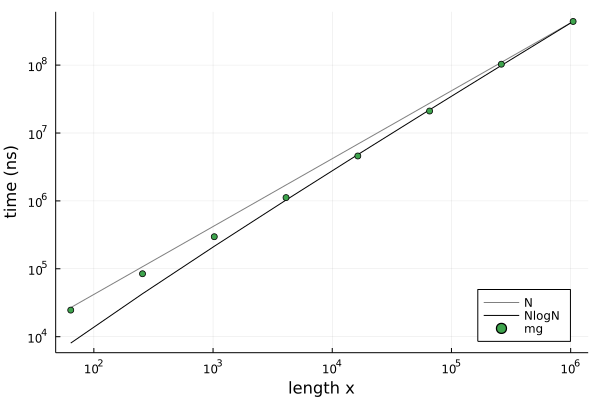
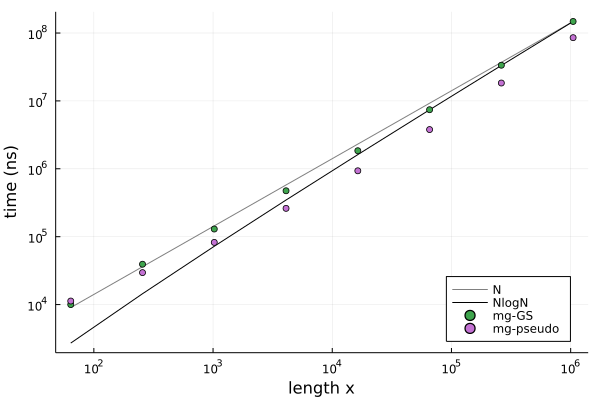
Update benchmark

diff --git a/README.md b/README.md
@@ -5,4 +5,5 @@ Working on high speed solutions for variable coefficient Poisson equations on Ca
 
 | ![mg solver benchmark](benchmark/MGscaling.png) | 
 |:--:| 
-| Median time [benchmark example](benchmark/benchmark.jl) for `mg!` solver demonstrating `NlogN` scaling with the length of the solution vector.|
+| Median time [benchmark example](benchmark/benchmark.jl) for `mg!` solver demonstrating `NlogN` scaling with the length of the solution vector. The dots labeled `psueo` utilize the pseudo-inverse
+smoother designed using AD to acheive approximately 50% speed up with Float32.|
